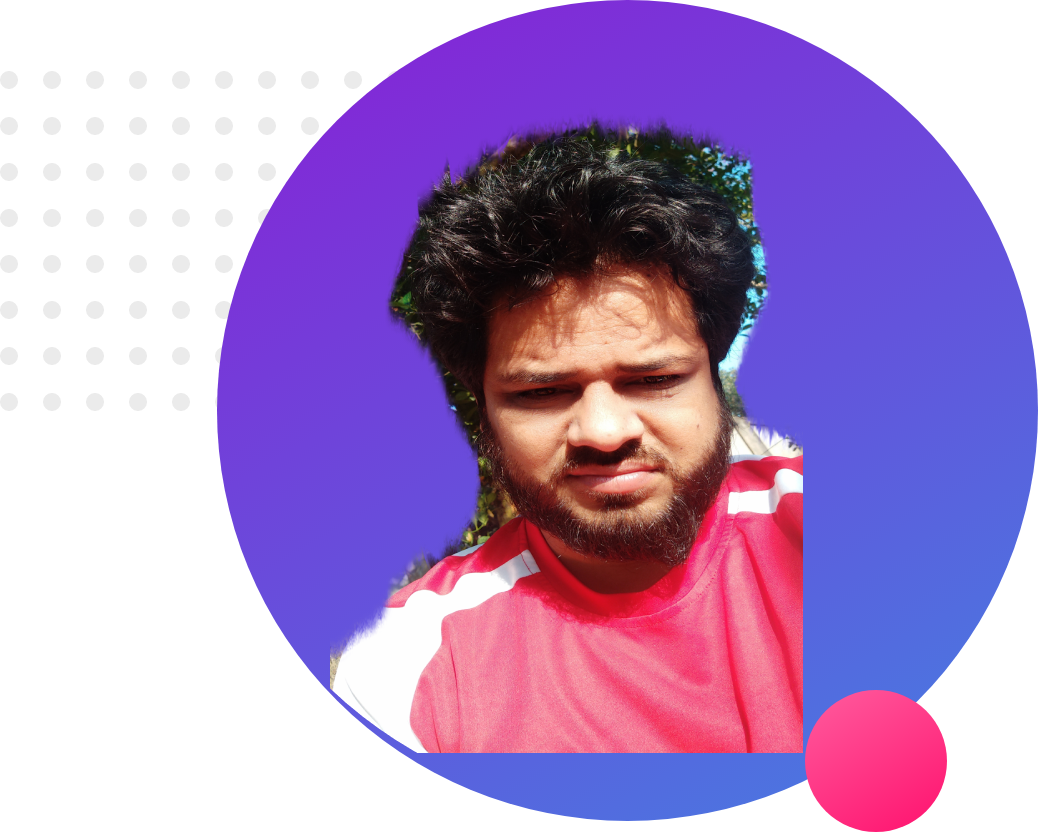
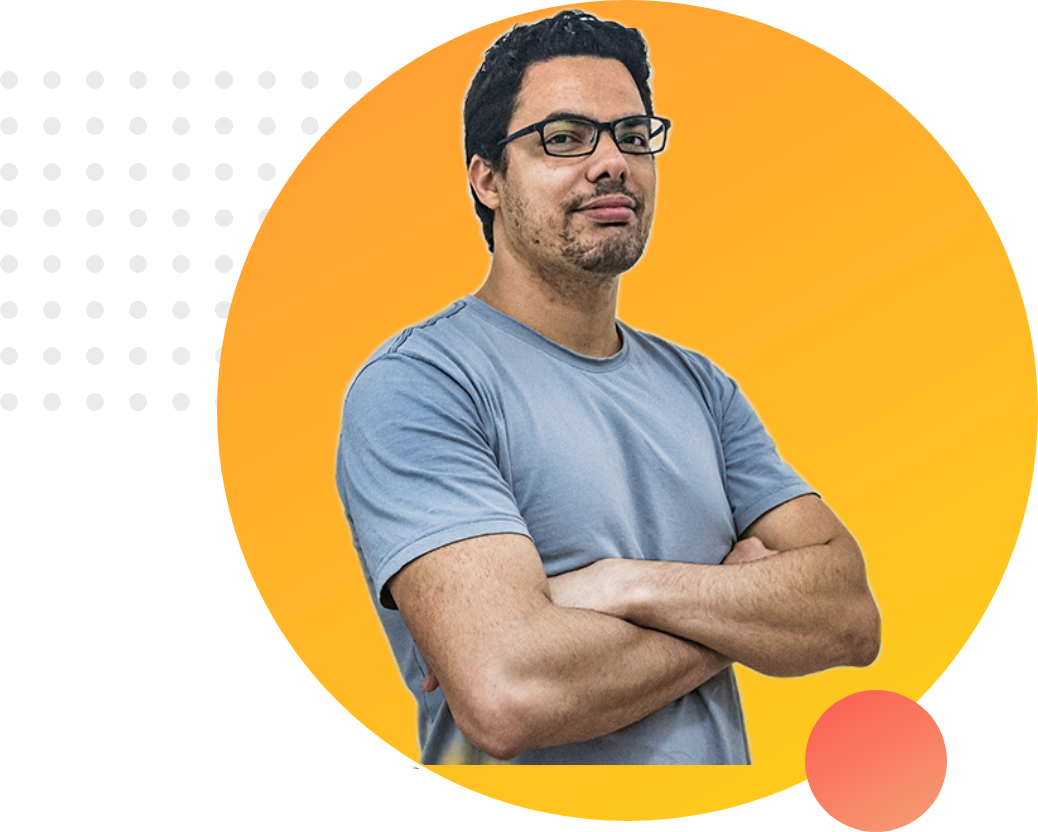
change own image with proffesional image

diff --git a/index.html b/index.html
@@ -44,7 +44,7 @@
 
     </section>
     <section class="experience-area">
-        <h2>Experiences</h2>
+        <h2 style="margin-left: 5%">Experiences</h2>
         <div class="half-width single-experince full-stack">
            <h2 class="orange-highlight">Full Stack Web Developer</h2>
             <h3>2020-Present|Pro level Web Developer</h3>
